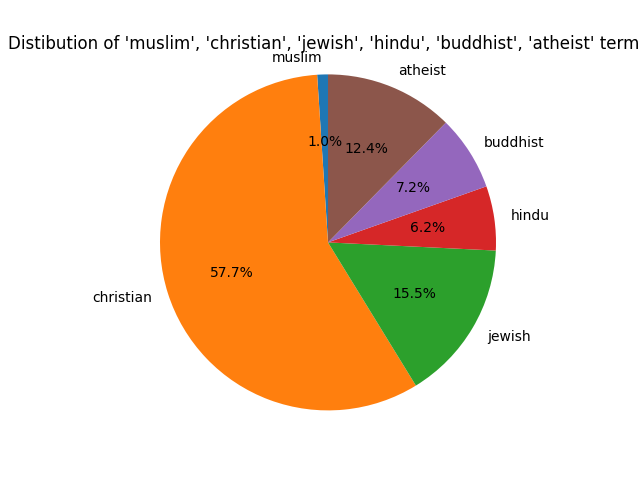
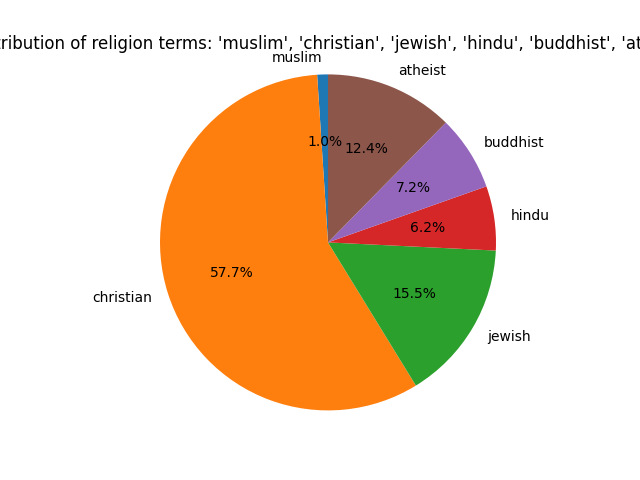
Second pass at counts with more memory-efficient implementation

Changed region(s): [[0.0, 0.0625, 1.0, 0.125]]

diff --git a/counts.py b/counts.py
@@ -13,13 +13,19 @@ corpus = map(lambda doc: doc.text, data_reader())
 ## Compute frequencies
 # Get document frequencies for the dataset. Luckily, it's an English dataset, so we can limit to English
 vectorizer = CountVectorizer(stop_words='english')#(max_df=0.95, min_df=2, stop_words='english')
-count_vect = vectorizer.fit_transform(corpus)
+counts = vectorizer.fit_transform(corpus)
 
-count_vect_dense = count_vect.todense()
 vocab = vectorizer.get_feature_names_out()
-counts = np.asarray(count_vect_dense.sum(axis=0)).ravel().tolist()
-counts_and_vocab = zip(counts, vocab)
+sum_counts = np.sum(counts, axis=0)
+sum_counts_list = np.asarray(sum_counts).tolist()[0]
+
+counts_and_vocab = zip(sum_counts_list, vocab)
 vocab_dict = {vocab:count for count, vocab in counts_and_vocab}
+#count_vect_dense = count_vect.todense()
+#vocab = vectorizer.get_feature_names_out()
+#counts = np.asarray(count_vect_dense.sum(axis=0)).ravel().tolist()
+#counts_and_vocab = zip(counts, vocab)
+#vocab_dict = {vocab:count for count, vocab in counts_and_vocab}
 with open('vocab_dict.json', 'w') as f:
   json.dump(vocab_dict, f)
 
@@ -39,7 +45,7 @@ try:
   gender_dict["non-binary"] = vocab_dict["non-binary"]
 except KeyError:
   pass
-to_pie_chart("gender", gender_dict, "Distribution of 'man', 'woman' and 'non-binary' terms")
+to_pie_chart("gender", gender_dict, "Distribution of gender terms: 'man', 'woman', 'non-binary'")
 
 ## Religion
 religion_dict = {}
@@ -48,10 +54,10 @@ for religion in ['muslim', 'christian', 'jewish', 'hindu', 'buddhist', 'atheist'
         religion_dict[religion] = vocab_dict[religion]
     except KeyError:
         pass
-to_pie_chart("religion", religion_dict, "Distibution of 'muslim', 'christian', 'jewish', 'hindu', 'buddhist', 'atheist' terms")
+to_pie_chart("religion", religion_dict, "Distribution of religion terms: 'muslim', 'christian', 'jewish', 'hindu', 'buddhist', 'atheist'")
 
 ## Age
 age_dict = {}
 for age in ['young', 'old']:
     age_dict[age] = vocab_dict[age]
-to_pie_chart("age", age_dict, "Distribution of 'young' and 'old' terms")
+to_pie_chart("age", age_dict, "Distribution of age terms: 'young', 'old'")
